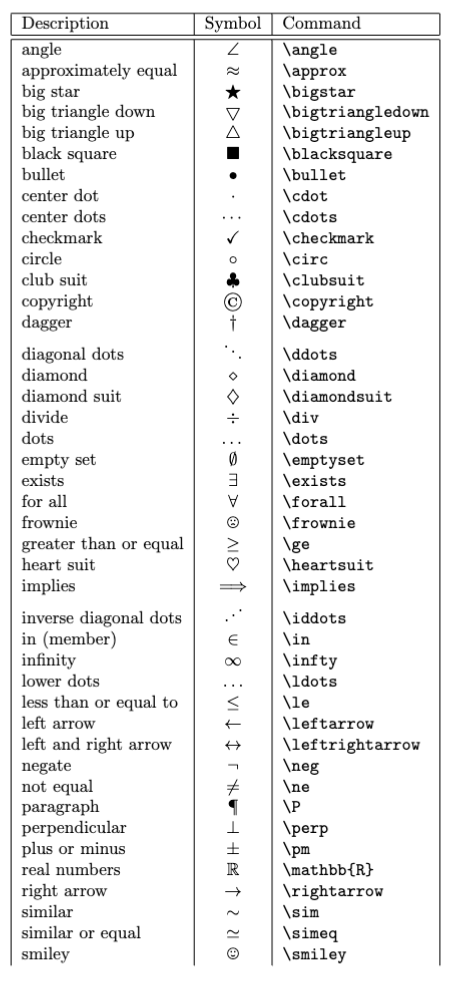
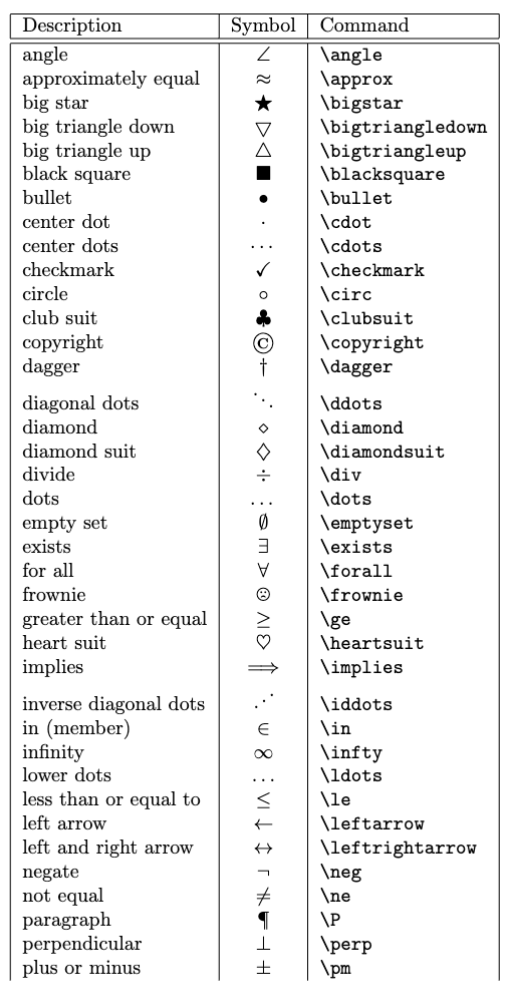
more LaTeX

Changed region(s): [[0.0, 0.0, 0.989, 1.0]]

diff --git a/src/latex.md b/src/latex.md
@@ -836,6 +836,7 @@ interpreting anything in it as LaTeX commands.
 
 For short text, use the `\verb` command
 with the text delimited by vertical bars (pipes).
+Why aren't curly braces used instead?
 For example:
 
 ```latex
@@ -1400,10 +1401,16 @@ are defined in the `mathdots` package.
 The `\frownie` and `\smiley` commands
 are defined in the `wasysym` package.
 
-<img alt="LaTeX symbols part 1" style="width: 65%"
+<img alt="LaTeX symbols part 1" style="width: 57%"
   src="/blog/assets/latex-symbols1.png?v={{pkg.version}}">
-<img alt="LaTeX symbols part 2" style="width: 65%"
+<img alt="LaTeX symbols part 2" style="width: 57%"
   src="/blog/assets/latex-symbols2.png?v={{pkg.version}}">
+
+Symbols that represent classes of numbers
+are rendered with the `\mathbb` command.
+
+<img alt="LaTeX symbols part 3" style="width: 50%"
+  src="/blog/assets/latex-symbols3.png?v={{pkg.version}}">
 
 For more, see
 <a href="https://artofproblemsolving.com/wiki/index.php/LaTeX:Symbols"
